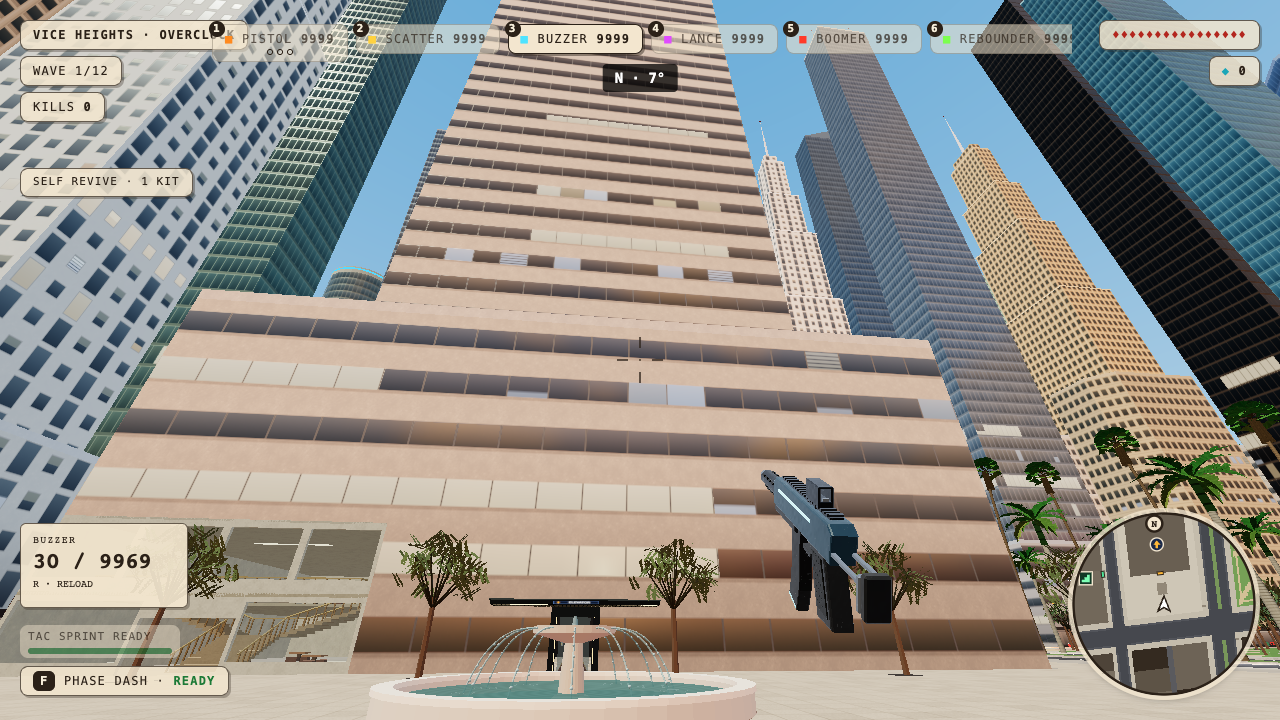
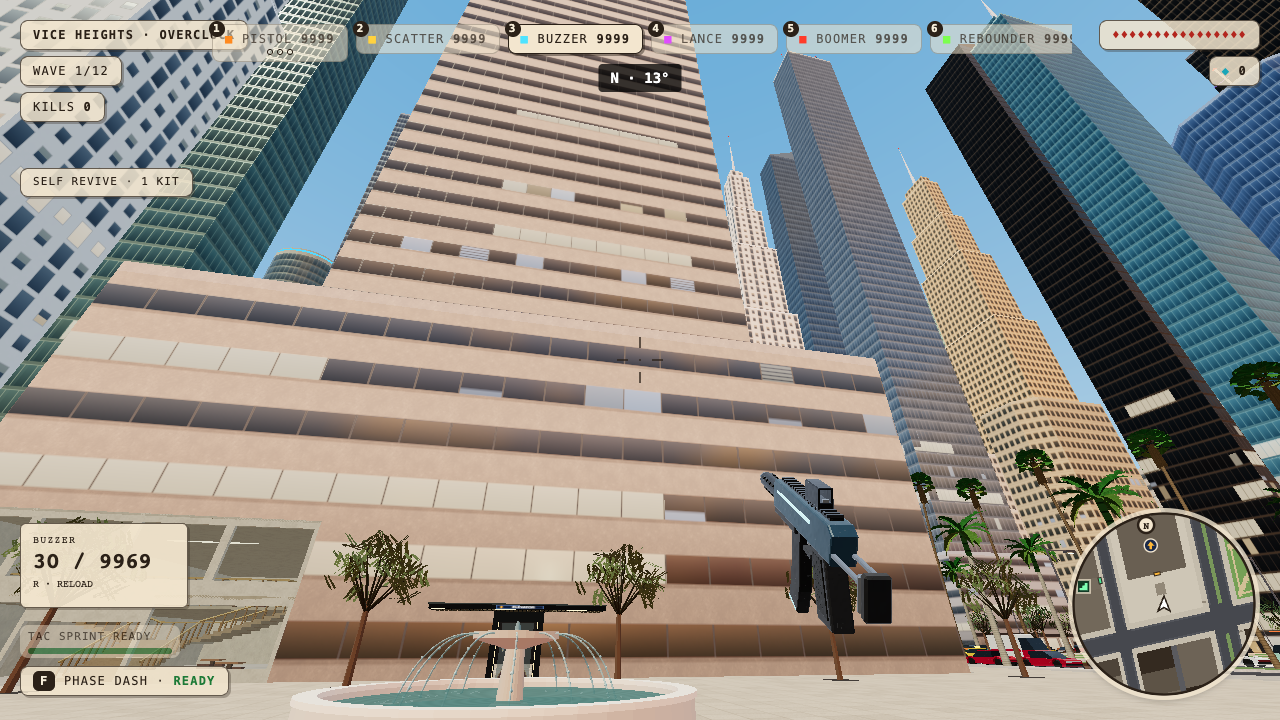
Document production HUD validation and controller coverage

diff --git a/docs/evidence/ammo-hud/README.md b/docs/evidence/ammo-hud/README.md
@@ -1,0 +1,11 @@
+# Fixed ammo / reload HUD
+
+The user-provided `before-user.png` shows the world-projected ammo label overlapping the elevator floor button. `desktop.png` and `desktop-look.png` show the fixed HUD at the same viewport rectangle after yaw/pitch input. `reload.png` shows the progress indicator in that same slot.
+
+`touch-landscape.png`, `touch-667.png`, and `touch-568.png` cover 844×390, 667×375, and 568×320. The ammo panel clears the minimap, SELF REVIVE chip and action buttons. `touch-portrait.png` confirms the existing rotate-device screen at 390×844.
+
+Run `BASE=http://127.0.0.1:4187 node scripts/playtest-ammo-hud.mjs` against the isolated dev server, or set BASE to a local production server. It writes screenshots and `results.json`, asserts a stable rectangle after look inputs, validates reload progress/counts, pause/resume, driving visibility, controller-family glyphs, touch overlap and downing visibility. Controller input is simulated through the browser Gamepad API; no physical controller or physical phone was tested. Vehicle visibility uses the existing debug handle. No performance benchmark was run: this change adds no scene rendering or per-frame React updates.
+
+`controller.png` shows the Switch reload glyph after Xbox and PlayStation checks. `downed.png` confirms ammo is absent during the self-revive prompt. The production-build run recorded 12 passing functional assertions with zero page errors. All 66 unit tests, typecheck, production build, and repository-map coverage passed.
+
+Shared Game.tsx integration is limited to the AmmoHud import and its conditional mount before ScopeOverlay. No revive, vehicle, or movement logic changed.
